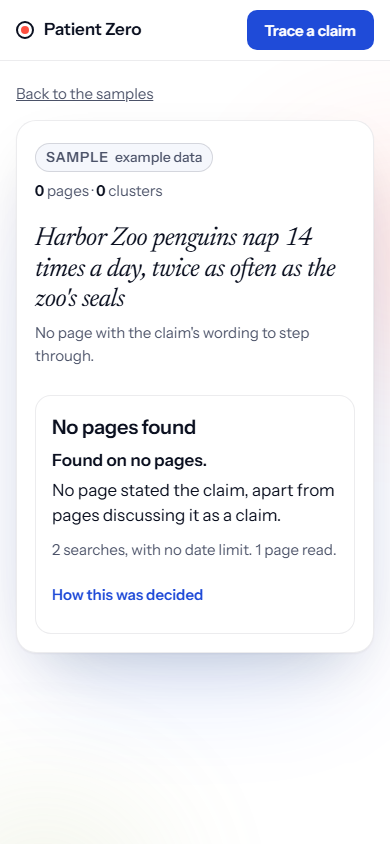
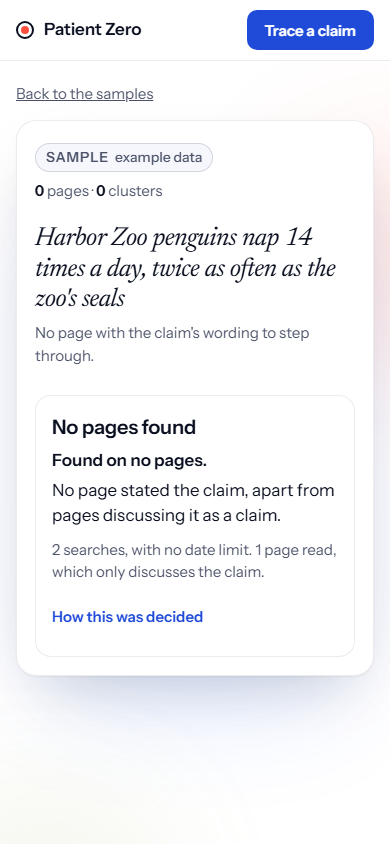
Quote the origin decide picked, list every row 5 check, and label pages that only discuss the claim

Changed region(s): [[0.1231, 0.6469, 0.5231, 0.7393], [0.1231, 0.7701, 0.8923, 0.8009], [0.6154, 0.6777, 0.6462, 0.7085]]

diff --git a/apps/web/src/model/stopCard.ts b/apps/web/src/model/stopCard.ts
@@ -1,5 +1,9 @@
 import type { Trace } from "pz/schema";
 import { independenceLine } from "pz/headline";
+import rulesJson from "../../../../packages/pz/rules/rules.json";
+// decide.ts takes the rules as a plain object, so the browser can run its origin pick (rules.ts itself reads a file).
+import { originPick } from "../../../../packages/pz/src/rules/decide.ts";
+import type { Rules } from "../../../../packages/pz/src/rules/rules.ts";
 import { endingSentence } from "./ending.ts";
 
 // The six rows of the stop-state table (decide.ts), in plain words for the rule sheet. Checked in order; the first
@@ -9,7 +13,11 @@ export const RULES: { row: Trace["decision"]["row"]; text: string }[] = [
   { row: 2, text: "The search hit a credit, time, step or page limit before it finished." },
   { row: 3, text: "No page stated the claim, apart from pages that discuss it as a claim." },
   { row: 4, text: "The earliest pages give the claim different numbers, beyond rounding or percent." },
-  { row: 5, text: "The earliest page is a primary source with a confirmed date, it cites nothing earlier, and two more searches found nothing older." },
+  {
+    row: 5,
+    text:
+      "The earliest page is a primary source with a confirmed date. Its words carry the claim, and the model said with confidence that it states the same claim (and a second model agreed, when one is set). It cites nothing earlier, does not deny the claim and holds no instructions aimed at a model. No page in the trace cites a page that could not be read, and at least two searches further back found nothing older.",
+  },
   { row: 6, text: "None of the rows above held, so the trace stops without naming an origin." },
 ];
 
@@ -31,6 +39,8 @@ const TONES: Record<Trace["decision"]["state"], "found" | "cold" | "caution"> = 
   TRAIL_GOES_COLD: "cold",
 };
 
+const rules = rulesJson as unknown as Rules;
+
 const monthYear = new Intl.DateTimeFormat("en-US", { month: "long", year: "numeric", timeZone: "UTC" });
 export const month = (iso: string) => monthYear.format(new Date(iso));
 const plural = (n: number, one: string, many: string) => `${n} ${n === 1 ? one : many}`;
@@ -48,18 +58,26 @@ export type StopCard = {
 
 // The one card a trace ends on: what happened, what was searched, and the rule that decided, all from stored data.
 export function stopCard(trace: Trace): StopCard {
-  const searches = trace.searchLog.filter((s) => s.step !== "follow");
+  // Every entry is a search except a followed citation and a model fallback note (#110).
+  const searches = trace.searchLog.filter((s) => s.step !== "follow" && s.step !== "model");
   const dates = searches.map((s) => s.endDate).filter((d): d is string => d !== null).sort();
   const reach = searches.length === 0
     ? "No search finished."
     : `${plural(searches.length, "search", "searches")}, ${dates[0] ? `back to before ${month(dates[0])}` : "with no date limit"}.`;
-  const searched = `${reach} ${plural(trace.nodes.length, "page", "pages")} read.`;
+  // Pages that only discuss the claim are read but not counted in "Found on N pages", so the card says which they are.
+  const discussing = trace.nodes.filter((n) => n.meta).length;
+  const read = trace.nodes.length;
+  const aside =
+    discussing === 0 ? ""
+    : discussing === read ? (read === 1 ? ", which only discusses the claim" : ", all of them only discussing the claim")
+    : `, ${discussing} of them only discussing the claim`;
+  const searched = `${reach} ${plural(trace.nodes.length, "page", "pages")} read${aside}.`;
 
   let origin: StopCard["origin"] = null;
   if (trace.decision.state === "ORIGIN_FOUND") {
-    const node = trace.nodes.find((n) => trace.earliest.nodeIds.includes(n.id));
-    const span = node && trace.spans.find((s) => s.id === node.spanIds[0]);
-    if (node && span) origin = { domain: node.domain, when: node.date.value ? month(node.date.value) : "Undated", quote: span.text, url: node.url };
+    // The page row 5 picked and the span on it that states the claim, never just the first earliest page (XO on #180).
+    const pick = originPick(trace, rules);
+    if (pick) origin = { domain: pick.node.domain, when: pick.node.date.value ? month(pick.node.date.value) : "Undated", quote: pick.span.text, url: pick.node.url };
   }
 
   return {

diff --git a/packages/pz/src/rules/decide.ts b/packages/pz/src/rules/decide.ts
@@ -44,6 +44,30 @@ function conflicting(trace: Trace, pages: Node[], rules: Rules): boolean {
   return agrees && differs;
 }
 
+// Row 5's page checks, in one place so the stop card quotes the very page decide picked (XO on #180).
+function originChecks(trace: Trace, pages: Node[], rules: Rules) {
+  const eligible = pages.filter((n) =>
+    trace.earliest.nodeIds.includes(n.id) && confident(n.pageType, rules) && rules.primaryPageTypes.includes(n.pageType.optionId)
+    && n.date.kind !== "unconfirmed" && !n.citesEarlier
+    && !trace.spans.some((s) => s.nodeId === n.id && isNegated(s, rules.negationPrefixes)));
+  // T50: a page with an instruction aimed at a model anywhere on it (the walker quotes it on the node) or in or around
+  // its span is never an origin.
+  const candidates = eligible.filter((n) => !(n.injection && hasInjection(n.injection, rules.injectionPatterns))
+    && !trace.spans.some((s) => s.nodeId === n.id && isInjected(s, rules.injectionPatterns)));
+  // T36 same-claim check: a span on the page carries the claim's atoms (code) and the typed same_claim says yes.
+  const claimSpan = (n: Node) => trace.spans.find((s) => s.nodeId === n.id && claimHit(s.text, trace.claim.atoms, rules));
+  const statesClaim = (n: Node) => confidentYes(n.sameClaim, rules) && secondAgrees(n, rules) && claimSpan(n) !== undefined;
+  const origin = candidates.find(statesClaim);
+  return { eligible, candidates, origin, originSpan: origin ? claimSpan(origin)! : undefined };
+}
+
+// The page row 5 names as the origin and the span on it that states the claim, or null when no page passes. Only
+// meaningful on an ORIGIN_FOUND trace; decideStopState runs the same checks.
+export function originPick(trace: Trace, rules: Rules): { node: Node; span: Trace["spans"][number] } | null {
+  const { origin, originSpan } = originChecks(trace, trace.nodes.filter((n) => !n.meta), rules);
+  return origin && originSpan ? { node: origin, span: originSpan } : null;
+}
+
 // Rows are checked in order; the first row that holds wins. Pure: reads only the trace and the rules.
 export function decideStopState(trace: Trace, rules: Rules): Decision {
   const pages = trace.nodes.filter((n) => !n.meta);
@@ -59,18 +83,7 @@ export function decideStopState(trace: Trace, rules: Rules): Decision {
   if (pages.length === 0) return decide("NO_PAGES_FOUND", 3, ["no pages besides meta pages"]);
   if (conflicting(trace, pages, rules)) return decide("CONFLICTING", 4, ["earliest cluster gives different numbers beyond every transform"]);
 
-  const eligible = pages.filter((n) =>
-    trace.earliest.nodeIds.includes(n.id) && confident(n.pageType, rules) && rules.primaryPageTypes.includes(n.pageType.optionId)
-    && n.date.kind !== "unconfirmed" && !n.citesEarlier
-    && !trace.spans.some((s) => s.nodeId === n.id && isNegated(s, rules.negationPrefixes)));
-  // T50: a page with an instruction aimed at a model anywhere on it (the walker quotes it on the node) or in or around
-  // its span is never an origin.
-  const candidates = eligible.filter((n) => !(n.injection && hasInjection(n.injection, rules.injectionPatterns))
-    && !trace.spans.some((s) => s.nodeId === n.id && isInjected(s, rules.injectionPatterns)));
-  // T36 same-claim check: a span on the page carries the claim's atoms (code) and the typed same_claim says yes.
-  const statesClaim = (n: Node) => confidentYes(n.sameClaim, rules) && secondAgrees(n, rules)
-    && trace.spans.some((s) => s.nodeId === n.id && claimHit(s.text, trace.claim.atoms, rules));
-  const origin = candidates.find(statesClaim);
+  const { eligible, candidates, origin } = originChecks(trace, pages, rules);
   // The gate's reasons appear only when the gate is what blocks: some earliest page passes every other check.
   const notAsked = candidates.filter((n) => !n.sameClaim).length;
   // T79: pages the first model says yes on that the second model does not.

diff --git a/apps/web/src/model/stopCard.test.ts b/apps/web/src/model/stopCard.test.ts
@@ -1,4 +1,8 @@
 import { describe, expect, it } from "vitest";
+import type { Trace } from "pz/schema";
+import rulesJson from "../../../../packages/pz/rules/rules.json";
+import { decideStopState } from "../../../../packages/pz/src/rules/decide.ts";
+import type { Rules } from "../../../../packages/pz/src/rules/rules.ts";
 import { loadTraces } from "../data/loadTraces.ts";
 import { lintText } from "../../../../packages/pz/src/cli/lint-copy.ts";
 import { RULES, stopCard } from "./stopCard.ts";
@@ -28,16 +32,35 @@ describe("stopCard", () => {
   });
 
   it("says what was searched in plain words, with months, never raw dates", () => {
-    expect(stopCard(byId("sample-rich")).searched).toBe("1 search, back to before December 2019. 6 pages read.");
+    expect(stopCard(byId("sample-rich")).searched).toBe("1 search, back to before December 2019. 6 pages read, 1 of them only discussing the claim.");
     expect(stopCard(byId("sample-cold-unread")).searched).toBe("2 searches, back to before December 2019. 2 pages read.");
     expect(stopCard(byId("sample-tool-failed")).searched).toBe("No search finished. 1 page read.");
-    expect(stopCard(byId("sample-no-pages")).searched).toBe("2 searches, with no date limit. 1 page read.");
+    expect(stopCard(byId("sample-no-pages")).searched).toBe("2 searches, with no date limit. 1 page read, which only discusses the claim.");
   });
 
   it("an origin gets the origin page itself: its site, its month and its own words", () => {
     const card = stopCard(byId("sample-origin"));
     expect(card.origin).toEqual({ domain: "harborzoo.example", when: "April 2019", quote: expect.stringContaining("14") , url: expect.stringContaining("harborzoo.example") });
     expect(stopCard(byId("sample-rich")).origin).toBeNull();
+  });
+
+  // XO on #180: with two earliest pages, news listed first, the card must quote the page decide picked.
+  it("quotes the page row 5 picked, not the first page of the earliest group", () => {
+    const base = byId("sample-origin");
+    const primary = base.nodes.find((n) => n.id === "keeper-log")!;
+    const span = base.spans.find((s) => s.nodeId === primary.id)!;
+    const news = {
+      ...primary, id: "news-first", url: "https://news.example/penguins", domain: "news.example", spanIds: ["s-news-first"], clusterId: "c-news-first",
+      pageType: { ...primary.pageType!, optionId: "news", top: [{ optionId: "news", p: 0.9 }] },
+    };
+    const trace: Trace = {
+      ...base,
+      nodes: [news, ...base.nodes],
+      spans: [{ ...span, id: "s-news-first", nodeId: "news-first", text: "Penguins nap 14 times a day, a zoo report says." }, ...base.spans],
+      earliest: { ...base.earliest, nodeIds: ["news-first", ...base.earliest.nodeIds] },
+    };
+    expect(decideStopState(trace, rulesJson as unknown as Rules).state).toBe("ORIGIN_FOUND");
+    expect(stopCard({ ...trace, decision: decideStopState(trace, rulesJson as unknown as Rules) }).origin).toMatchObject({ domain: "harborzoo.example", quote: span.text });
   });
 
   // The copy lint itself checks every card string for banned phrases and dashes.

diff --git a/packages/pz/src/rules/index.ts b/packages/pz/src/rules/index.ts
@@ -2,6 +2,6 @@ export { normalise, protectedTokens } from "./normalise.ts";
 export { atomHit, canonicalKey, isWeak, parseNumbers, sameNumber } from "./numbers.ts";
 export type { ParsedNumber, SameNumber, SkipReason } from "./numbers.ts";
 export { Rules, loadRules } from "./rules.ts";
-export { decideStopState } from "./decide.ts";
+export { decideStopState, originPick } from "./decide.ts";
 export { findInjection, hasInjection, isInjected, isNegated } from "./negation.ts";
 export { claimHit, isRange, phraseHit } from "./claim-hit.ts";
